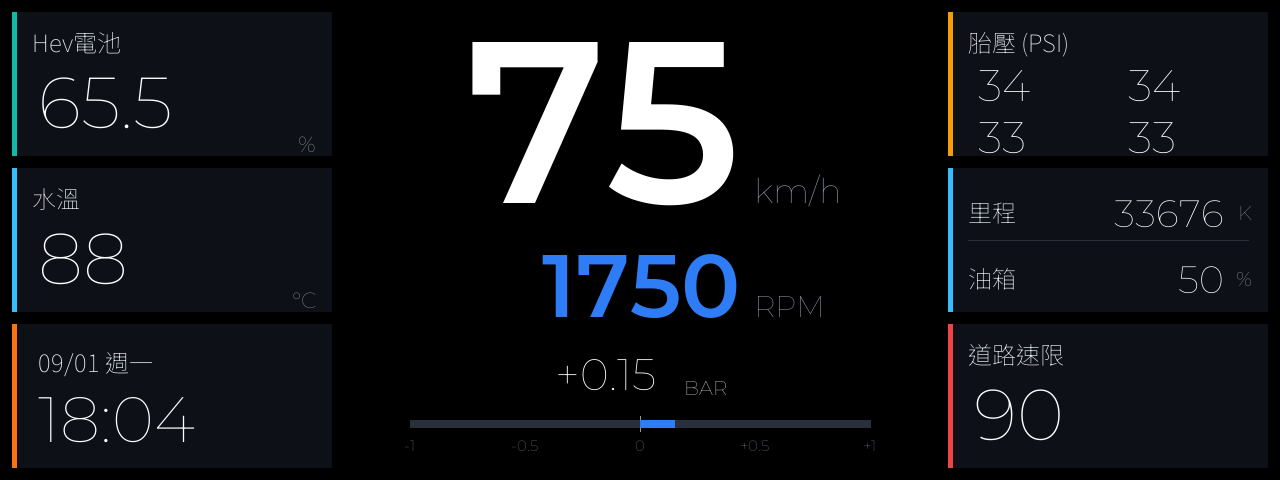
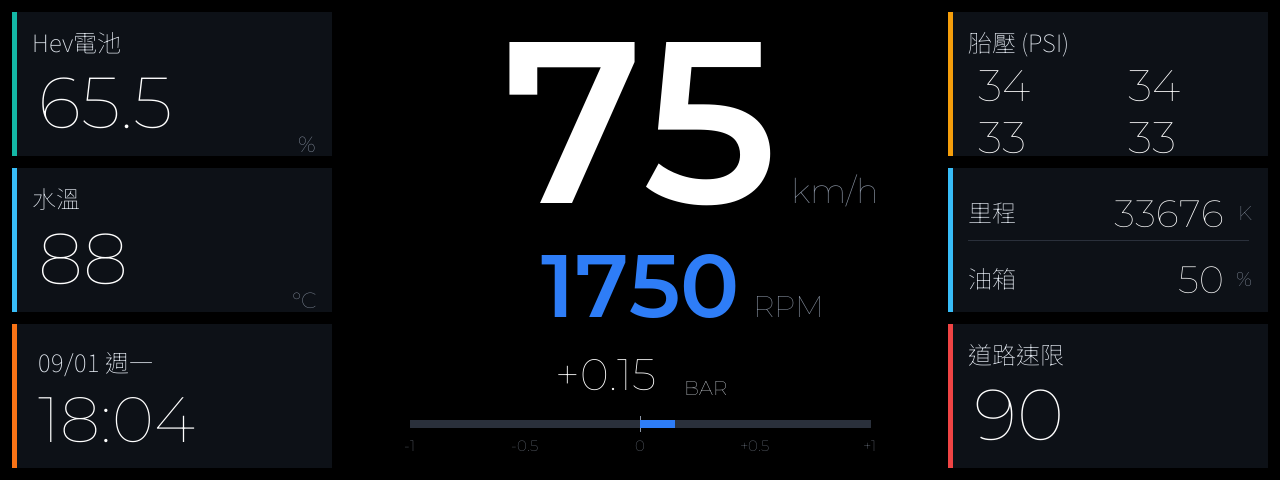
style: 數值改以標稱位數置中，單位固定
以「時速兩位、轉速四位」為設計基準：該位數下數字剛好置中於畫面中線
640，單位固定貼在其右側。位數變多時數字往左長（右緣固定），因此永遠
不會壓到單位。

  時速 "75"   置中於 640（標稱）；"188" 中心 583、"0" 中心 700
  轉速 "1750" 置中於 640（標稱）；"6800" 中心 624、"780" 中心 654

基準線改由產生器從標稱字串自動算出，不再寫死座標——改字級或改標稱
位數時，單位位置與 EV 圖示範圍都會跟著重算。EV 圖示現為 x 491..844，
由轉速最寬情況 "8888" 與單位寬度推得。

時速最寬的 "188" 左緣由 352 移到 389，距左側卡片的餘裕從 20px 增為 57px。

diff --git a/esp32_display/dwin_dashboard/tools/gen_background.py b/esp32_display/dwin_dashboard/tools/gen_background.py
@@ -49,10 +49,12 @@ ACCENT_W = 5
 CX            = W // 2
 # 單位是靜態的（畫在背景圖裡）位置不能動，所以數值一律「靠右對齊」，
 # 單位緊貼在它的右下角。若數值置中，位數變化時與單位的間距就會不一致。
-# 時速與轉速共用同一條右對齊基準線，單位也從同一個 x 起算，
-# 兩列才會看起來對齊（數值本身寬度會隨位數變動，無法靠置中對齊）。
-VALUE_RIGHT   = 740      # 數值右緣
-UNIT_X        = 754      # 單位起點（貼在數值右下角）
+# 以「標稱位數」為設計基準：時速兩位、轉速四位。
+# 該位數下數字剛好置中於畫面中線，單位固定貼在它右側。
+# 位數變多時數字往左長（右緣固定），所以永遠不會壓到單位。
+NOMINAL_SPEED = "75"
+NOMINAL_RPM   = "1750"
+UNIT_GAP      = 14       # 數值右緣到單位起點的間距
 SPEED_BASE    = 203      # 時速基線
 RPM_BASE      = 317      # 轉速基線
 
@@ -62,7 +64,6 @@ RPM_BASE      = 317      # 轉速基線
 # 圖示底色與畫面背景同為純黑，蓋上去看不出接縫。
 # DGUS 端用 Variable Icon (0x00) 或 Animation Icon (0x01)：
 # 把 V_Min/V_Max 都設為 0，轉速一大於 0 就自動不顯示。
-EV_X, EV_Y, EV_W, EV_H = 490, 245, 360, 90
 TURBO_CY      = 374
 TURBO_BAR_Y   = 420
 TURBO_BAR_W   = 460
@@ -74,6 +75,22 @@ def f(name, size):
 F_TC     = lambda s: f("NotoSansTC.ttf", s)
 F_NUM    = lambda s: f("Montserrat.ttf", s)
 F_NUM_SB = lambda s: f("Montserrat-SemiBold.ttf", s)
+
+def tw(font, txt):
+    b = font.getbbox(txt)
+    return b[2] - b[0]
+
+# 由標稱位數推出右對齊基準線與單位位置（不寫死座標，改字級會自動跟著算）
+SPEED_RIGHT  = CX + tw(F_NUM_SB(230), NOMINAL_SPEED) // 2
+SPEED_UNIT_X = SPEED_RIGHT + UNIT_GAP
+RPM_RIGHT    = CX + tw(F_NUM_SB(88), NOMINAL_RPM) // 2
+RPM_UNIT_X   = RPM_RIGHT + UNIT_GAP
+
+# EV 圖示需涵蓋轉速最寬情況與單位
+_ev_left  = RPM_RIGHT - tw(F_NUM_SB(88), "8888") - 20
+_ev_right = RPM_UNIT_X + tw(F_NUM(30), "RPM") + 20
+EV_X, EV_Y = _ev_left, 245
+EV_W, EV_H = _ev_right - _ev_left, 90
 
 def card(d, x, y, w, h, accent):
     d.rectangle([x, y, x + w - 1, y + h - 1], fill=CARD)
@@ -110,8 +127,8 @@ def draw_static(d):
     text(d, (RIGHT_X + 20, ROW_Y[2] + 12), "道路速限", F_TC(24), LABEL)
 
     # 中央區的固定文字：單位貼在各自數值的右下角，與數值基線對齊
-    text(d, (UNIT_X, SPEED_BASE), "km/h", F_NUM(34), UNIT, "ls")
-    text(d, (UNIT_X, RPM_BASE), "RPM", F_NUM(30), UNIT, "ls")
+    text(d, (SPEED_UNIT_X, SPEED_BASE), "km/h", F_NUM(34), UNIT, "ls")
+    text(d, (RPM_UNIT_X, RPM_BASE), "RPM", F_NUM(30), UNIT, "ls")
 
     # 增壓：軌道、中線、刻度
     d.rectangle([TURBO_BAR_X, TURBO_BAR_Y,
@@ -138,8 +155,8 @@ def draw_dynamic(d):
     text(d, (RIGHT_X + 26, ROW_Y[2] + 46), "90", F_NUM(72), TEXT)
 
     # 中央：時速 → 轉速 → 增壓
-    text(d, (VALUE_RIGHT, SPEED_BASE), "75", F_NUM_SB(230), TEXT, "rs")
-    text(d, (VALUE_RIGHT, RPM_BASE), "1750", F_NUM_SB(88), BLUE, "rs")
+    text(d, (SPEED_RIGHT, SPEED_BASE), NOMINAL_SPEED, F_NUM_SB(230), TEXT, "rs")
+    text(d, (RPM_RIGHT, RPM_BASE), NOMINAL_RPM, F_NUM_SB(88), BLUE, "rs")
 
     text(d, (CX - 34, TURBO_CY), "+0.15", F_NUM(44), TEXT, "mm")
     text(d, (CX + 44, TURBO_CY + 14), "BAR", F_NUM(20), LABEL, "lm")

diff --git a/esp32_display/dwin_dashboard/README.md b/esp32_display/dwin_dashboard/README.md
@@ -52,18 +52,27 @@ python3 tools/gen_background.py <字型資料夾>
 如果之後想補回來，可以在時速數字下方加一條細的水平進度條，
 比弧線更貼合長條螢幕。
 
-## 為什麼數值是靠右對齊
+## 數值與單位的對齊方式
 
 `km/h`、`RPM` 這些單位是**靜態的**——它們畫在背景圖裡，位置固定不能動。
-所以數值必須靠右對齊、單位緊貼其右下角，位數變化時數字往左長。
-若數值置中，兩位數與三位數跟單位之間的間距就會不一致。
+因此採取「**以標稱位數置中、單位固定**」的作法：
 
-時速與轉速**共用同一條右對齊基準線**（`VALUE_RIGHT`）、單位也從同一個
-x 起算（`UNIT_X`），兩列看起來才是對齊的。數值寬度會隨位數變動，
-靠置中是對不齊的。
+- 標稱位數：時速 **兩位**、轉速 **四位**（`NOMINAL_SPEED` / `NOMINAL_RPM`）
+- 該位數下數字剛好置中於畫面中線 640，單位固定貼在它右側
+- 位數變多時數字**往左長**（右緣固定），所以永遠不會壓到單位
 
-同理，DGUS 的 Data Variable 雖然有內建的 `String_Unit` 欄位可以把單位
-接在數字後面，但那個單位會跟數字同字級（時速是 230px），不能用。
+實際落點：
+
+| | 兩位/四位（標稱） | 其他位數 |
+|---|---|---|
+| 時速 | `75` 置中於 640 | `188` 中心 583、`0` 中心 700 |
+| 轉速 | `1750` 置中於 640 | `6800` 中心 624、`780` 中心 654 |
+
+非標稱位數時視覺重心會偏移，這是靜態單位的必然代價；用標稱位數當基準
+是因為那是行駛中最常見的情況。
+
+> 基準線由 `gen_background.py` 從標稱字串**自動算出**，不是寫死座標。
+> 改字級或改標稱位數時，單位位置與 EV 圖示範圍都會跟著重算。
 
 ## 轉速為 0 時顯示 EV
 
@@ -81,8 +90,8 @@ VP 指向轉速值、`V_Min`/`V_Max` 都設為 `0` —— 依規格書
 「Values greater than V_Max will show no Icons」，轉速一大於 0
 圖示就自動消失，不需要 MCU 額外送控制指令。
 
-圖示尺寸 **360×90（x 490..850，y 245..335）**，涵蓋轉速最寬的
-`6800`（x 510..740）與單位 `RPM`（x 754..825）。
+圖示範圍由程式從轉速的最寬情況（`8888`）與單位寬度自動推算，
+目前為 **x 491..844、y 245..335**。
 
 > 轉速字級改動時，**EV 圖示的尺寸必須跟著重算**——蓋不住就會露出底下
 > 的數字或單位。`gen_background.py` 末尾的檢查會列出各位數的實際佔用
